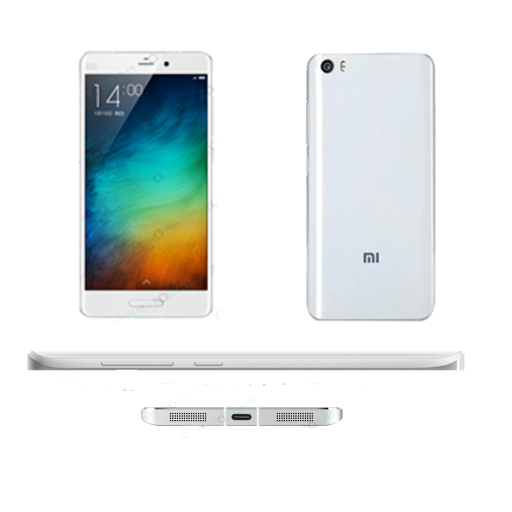
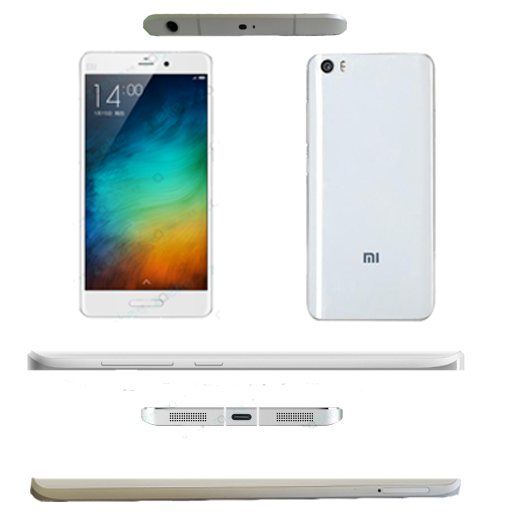
done texturing

Changed region(s): [[0.0625, 0.9062, 0.9062, 1.0], [0.2812, 0.0, 0.6875, 0.0938]]

diff --git a/OpenGLTutorialProjectWindows/main.cpp b/OpenGLTutorialProjectWindows/main.cpp
@@ -25,10 +25,10 @@ int main(int argc, char** argv) {
 		Vertex(glm::vec3(-0.346, -0.723, -0.0365),  glm::vec2(0.617, 0.615)),
 		Vertex(glm::vec3(0.346, -0.723, -0.0365),  glm::vec2(0.836, 0.615)),
 		//atas
-		Vertex(glm::vec3(0.346, 0.723, 0.0365), glm::vec2(0.283, 0.791)),
-		Vertex(glm::vec3(-0.346, 0.723, 0.0365),  glm::vec2(0.664, 0.791)),
-		Vertex(glm::vec3(-0.346, 0.723, -0.0365),  glm::vec2(0.664, 0.832)),
-		Vertex(glm::vec3(0.346, 0.723, -0.0365), glm::vec2(0.283, 0.832)),
+		Vertex(glm::vec3(0.346, 0.723, 0.0365), glm::vec2(0.672, 0.031)),
+		Vertex(glm::vec3(-0.346, 0.723, 0.0365),  glm::vec2(0.283, 0.066)),
+		Vertex(glm::vec3(-0.346, 0.723, -0.0365),  glm::vec2(0.283, 0.066)),
+		Vertex(glm::vec3(0.346, 0.723, -0.0365), glm::vec2(0.672, 0.031)),
 		//bawah
 		Vertex(glm::vec3(-0.346, -0.723, 0.0365),  glm::vec2(0.283, 0.791)),
 		Vertex(glm::vec3(0.346, -0.723, 0.0365),  glm::vec2(0.664, 0.791)),
@@ -40,10 +40,10 @@ int main(int argc, char** argv) {
 		Vertex(glm::vec3(0.346, -0.723, -0.0365),  glm::vec2(0.904, 0.686)),
 		Vertex(glm::vec3(0.346, 0.723, -0.0365), glm::vec2(0.06, 0.686)),
 		//kiri
-		Vertex(glm::vec3(-0.346, 0.723, 0.0365),  glm::vec2(0.06, 0.723)),
-		Vertex(glm::vec3(-0.346, -0.723, 0.0365),  glm::vec2(0.904, 0.723)),
-		Vertex(glm::vec3(-0.346, -0.723, -0.0365),  glm::vec2(0.904, 0.686)),
-		Vertex(glm::vec3(-0.346, 0.723, -0.0365),  glm::vec2(0.06, 0.686)),
+		Vertex(glm::vec3(-0.346, 0.723, 0.0365),  glm::vec2(0.893, 0.97)),
+		Vertex(glm::vec3(-0.346, -0.723, 0.0365),  glm::vec2(0.063, 0.97)),
+		Vertex(glm::vec3(-0.346, -0.723, -0.0365),  glm::vec2(0.063, 0.934)),
+		Vertex(glm::vec3(-0.346, 0.723, -0.0365),  glm::vec2(0.893, 0.934)),
 	};
 
 	unsigned int indices[] = {
